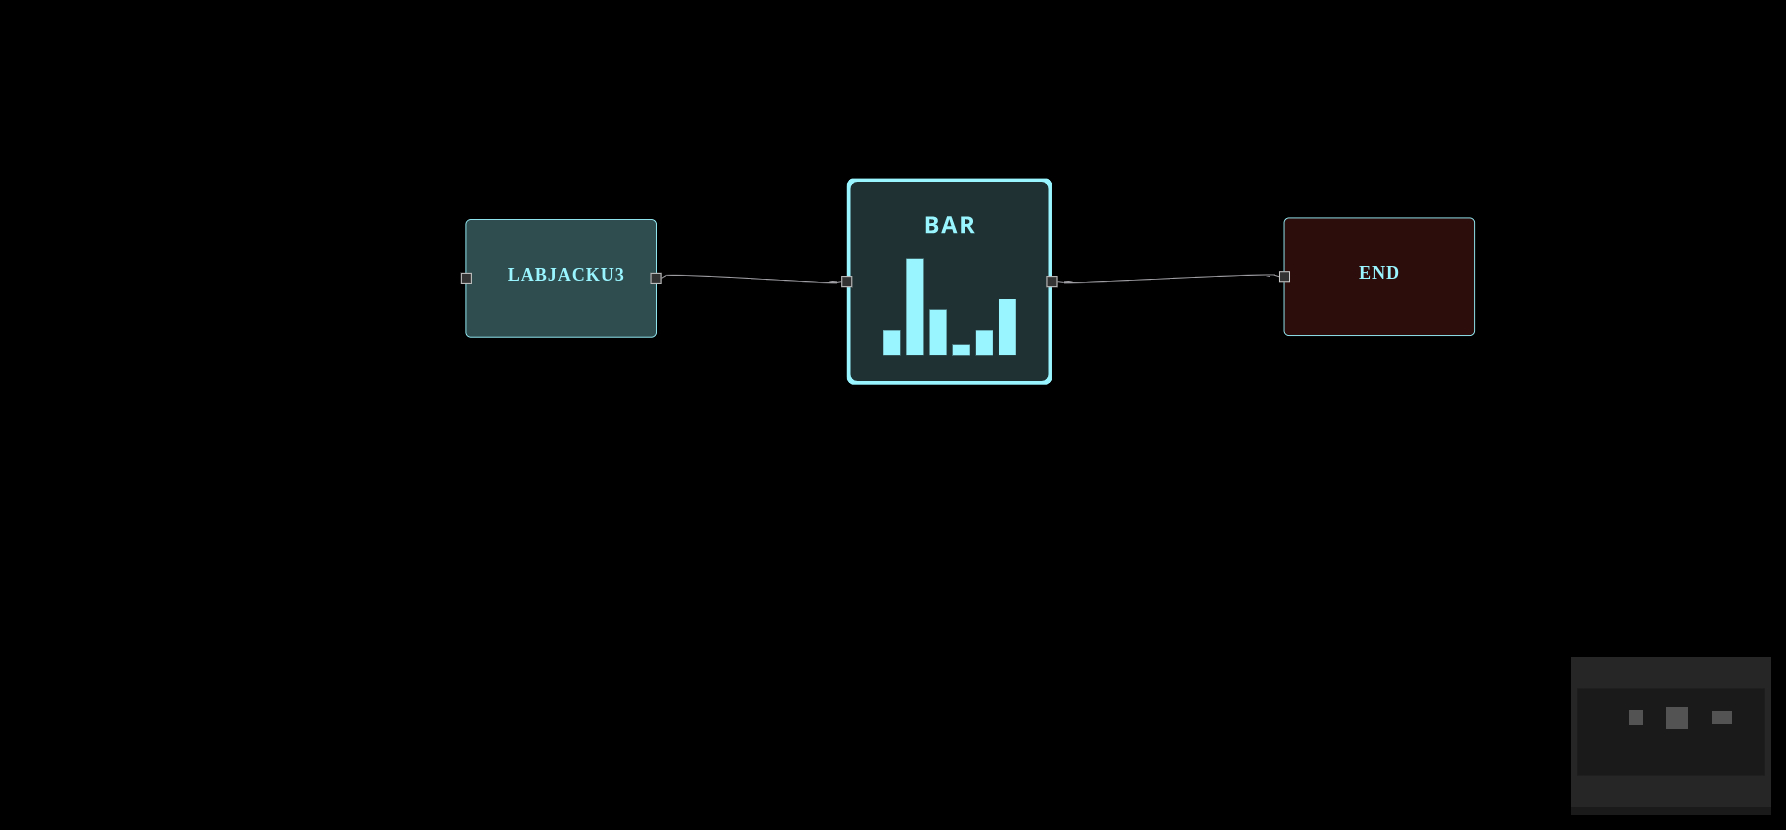
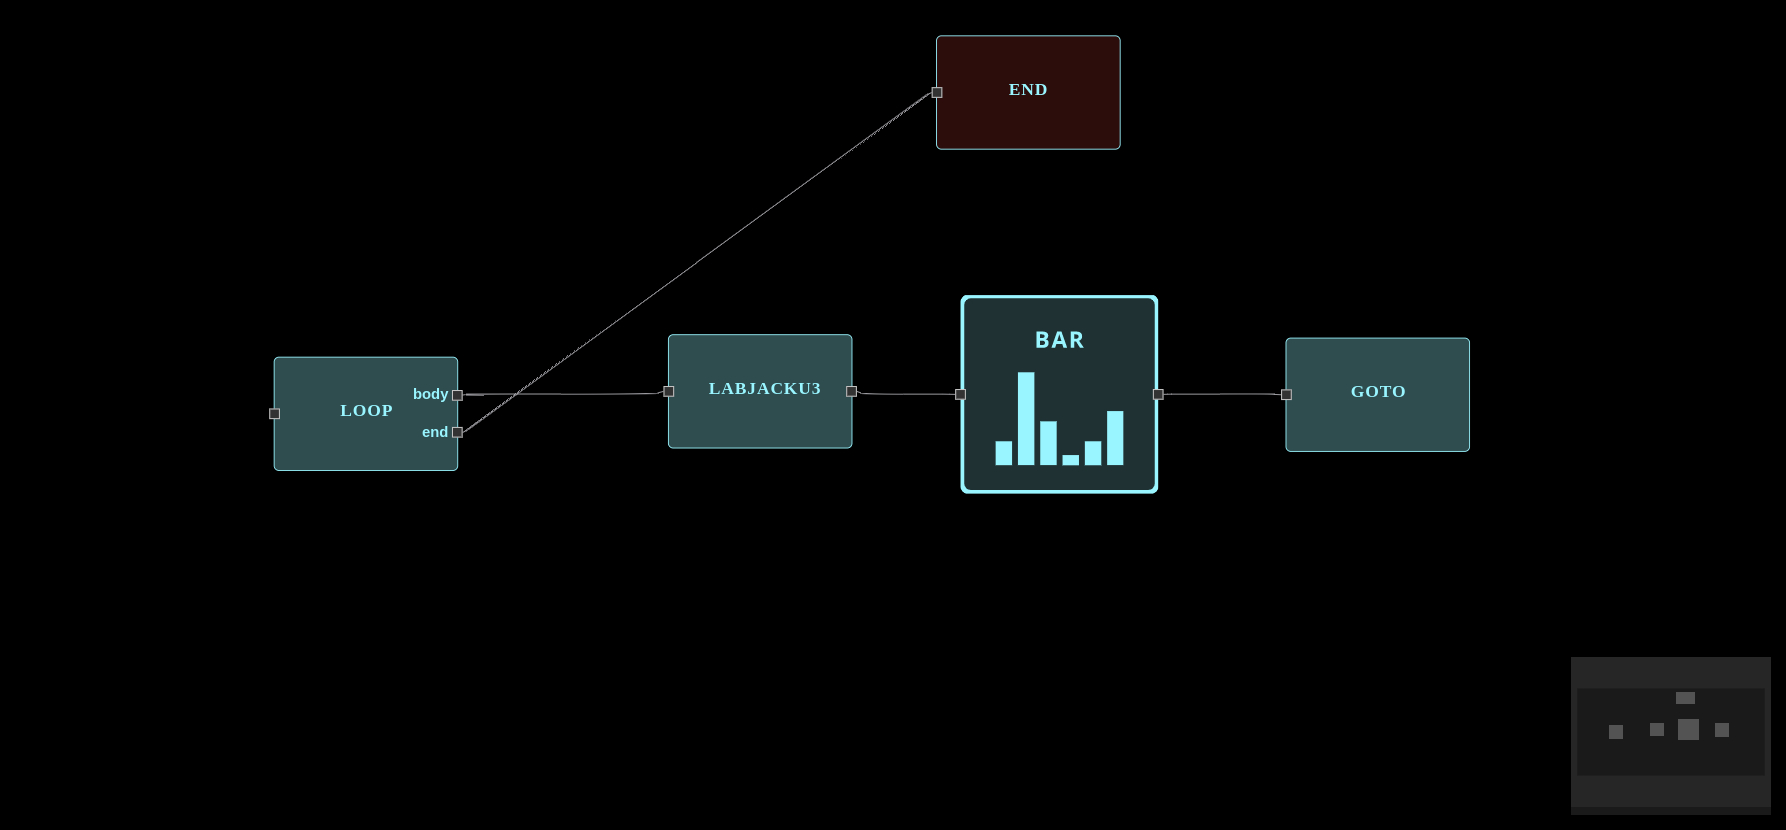
migrated Phidget22 nodes

diff --git a/INSTRUMENTS/PHIDGET/PHIDGET22/PHIDGET22.py b/INSTRUMENTS/PHIDGET/PHIDGET22/PHIDGET22.py
@@ -1,4 +1,4 @@
-from flojoy import flojoy, DataContainer
+from flojoy import flojoy, OrderedPair
 import Phidget22
 from Phidget22.Phidget import *
 from Phidget22.Devices.VoltageRatioInput import *
@@ -9,15 +9,32 @@ def onVoltageRatioChange(self, voltageRatio):
     print("VoltageRatio [" + str(self.getChannel()) + "]: " + str(voltageRatio))
 
 
-@flojoy
-def PHIDGET22(dc_inputs: list[DataContainer], params: dict) -> DataContainer:
-    """Pressure Measurement with Phidget 22 sensors"""
+@flojoy(deps={"Phidget22": "1.14.20230331"})
+def PHIDGET22(
+    default: OrderedPair = None,
+    n_sensors: int = 1,
+    calibration1: float = 0.015,
+    calibration2: float = 0.06,
+) -> OrderedPair:
+    """
+    The node Phidget allows you to record pressures from Flexiforce sensors using a Phidget InterfaceKit.
+
+    Parameters
+    -----------
+    n_sensors: int
+         Defines the number of pressure sensors connected to the Phidget Interface Kit.
+    calibration1: float
+    calibration2: float
+        Calibration parameters to convert voltage into pressure.
+    """
     voltage: list[float] = []
     pressions: list[float] = []
-    N = params["n_sensors"]
+    sensor_num: list[int] = []
+    N = n_sensors
 
     for i in range(0, N):
-        # Creation of an instance of the VoltageRationInput class
+        sensor_num.append(i + 1)
+        """# Creation of an instance of the VoltageRationInput class
         voltageRatioInput = VoltageRatioInput()
         # Set Channel for Communication with the Phidget Interface Kit :
         voltageRatioInput.setChannel(i)
@@ -32,24 +49,13 @@ def PHIDGET22(dc_inputs: list[DataContainer], params: dict) -> DataContainer:
         voltage.append(volt_i)  # Add Voltage to the list of measurements
 
         # Example of a Calibration to convert Voltage into pressions :
-        pression_i: float = (volt_i - params["calibration1"]) / params["calibration2"]
+        pression_i: float = (
+            volt_i - params["calibration1"]) / params["calibration2"]
 
-        pressions.append(pression_i)
+        pressions.append(pression_i)"""
 
-    return DataContainer(x={"a": voltage, "b": pressions}, y=pressions)
+    Mock_pressions = [2.1, 3.4, 1.4, 5.3, 8.6, 2.1]
 
+    results = OrderedPair(x=sensor_num, y=Mock_pressions)
 
-@flojoy
-def PHIDGET22_MOCK(dc_inputs: list[DataContainer], params: dict) -> DataContainer:
-    """Mock Function for the node Phidget 22"""
-    voltage: list[float] = []
-    pressions: list[float] = []
-    N = 4
-
-    for i in range(0, N):
-        volt_i: int = i * 10 + 4  # Scalar operation to modify data
-        voltage.append(volt_i)  # Add Voltage to the list of measurements
-        pression_i: float = (volt_i - 0.015) / 0.06
-        pressions.append(pression_i)
-
-    return DataContainer(x={"a": voltage, "b": pressions}, y=pressions)
+    return results

diff --git a/INSTRUMENTS/LABJACK/LABJACKU3/LABJACKU3.py b/INSTRUMENTS/LABJACK/LABJACKU3/LABJACKU3.py
@@ -4,17 +4,15 @@ import u3  # Import the library from LabJackPython in order to use our U3-LV dev
 
 
 @flojoy(deps={"labjackpython": "2.1.0"})
-def LABJACKU3(
-        default: OrderedPair = None,
-        numbers: int = 1) -> OrderedPair:
-    '''
+def LABJACKU3(default: OrderedPair = None, numbers: int = 1) -> OrderedPair:
+    """
     The node LABJACKU3 allows you to record and return temperature measurements with a LABJACK U3 device.
 
     Parameters
     -----------
     number: int
          Defines the number of temperature sensors connected to the LabJack U3 device.
-    '''
+    """
 
     voltages: list[float] = []
     temperatures: list[float] = []

diff --git a/INSTRUMENTS/PHIDGET/PHIDGET22/example.md b/INSTRUMENTS/PHIDGET/PHIDGET22/example.md
@@ -1,45 +1,18 @@
-- This is a tutorial for using the node called Phidget 22 and measure pressures from Flexiforce sensors using a Phidget InterfaceKit
+This example shows how to use the node Phidget22 and measure pressures from Flexiforce sensors using a Phidget InterfaceKit
+The appendix contains all information about hardware requirements and sensor connections (Images).
 
+After connecting the pressure sensors, place the nodes on Flojoy:
 
-**Hardware required** : 
-- A Phidget InterfaceKit (Model 8/8/8 1018_3 is the one we used to develop the node)
-- N pressure sensors (This tutorial will present measurement from FlexiForce sensor but you can use all the Sensors compatible with Phidget).
-- Connections cables (USB, Electronic cables)
+- The ['PHIDGET22'](https://github.com/flojoy-io/nodes/blob/main/INSTRUMENTS/PHIDGET/PHIDGET22/PHIDGET22.py) node communicates with the Phidget interface kit. It measures voltages from the sensors and converts them into pressures thanks to the two calibration parameters (The user has to calibrate his sensors). This node has another parameter, 'n_sensors,' the number of pressure sensors in your experiment.
 
+- The ['BAR'](https://github.com/flojoy-io/nodes/blob/main/VISUALIZERS/PLOTLY/BAR/BAR.py) node shows all pressure measurements on the same figure.
 
-**Software required :**
-- Flojoy software running (Go to the page -- Getting started/Installation)
-- Phidget 22 PAckage -- (It should be installed automatically from Requirements) (Otherwise follow docs from : https://www.phidgets.com/docs/Main_Page)
+- The ['END'](https://github.com/flojoy-io/nodes/blob/main/LOGIC_GATES/TERMINATORS/END.py) node terminates the process.
 
-**Connection :** 
-- Connect the PHIDGET Interfacekit to your computer with an USB Cable
-- Connect the Flexiforce sensors with the Phidget Interfacekit using a Flexiforce adapter (See Image)
+### Calibration:
 
-![image](./assets/Phidget22_sensor.jpg)
+Apply known pressures (at least 4) and measure sensor voltages with the Phidget control panel. Plot the voltage as a function of the forces applied. You can choose the unit of your choice.
+Find the linear equation (y=ax+b) between the voltage measured and the pressure applied on the sensor.
+A and B are the calibration parameters used to convert voltage to pressure.
 
-**Node Management :** 
-
-The PHIDGET22 node doesn't need any data input, so it can be placed on the left on the Flojoy interface : 
-
-![image](./assets/PHIDGET22_nodes.png)
-
-You'll need to set up one numeric parameters in the CRTL panel which is the number of pressure sensors you are using for your experiment. 
-Note that the node is measuring voltage from the sensors (The calibration will depend on the type of sensor you are using)
-
-![image](./assets/PHIDGET22_ctrl.png)
-
-**Calibration :** 
-
-In order to Calibrate your sensor, you'll need to apply some known pressures (3 or 4 is best, and you can use pad sensor to increase the voltage) 
-and measure some voltages with the Flojoy application. 
-From these measurements you deduce the relation between the voltage and the pressure applied on the sensor, and you can use operationnal
-nodes in order to convert voltage into pressures.
-
-**Visualisation :** 
-
-After that you can choose your Visualisation node that fits your project to display the pressure measurements as you want.  
-
-Also, you can use the loop node (See documentation) in order to update the measurements, you can set the parameters you want for the loops
-(Delay, number of loops, etc..) 
-
-![image](./assets/PHIDGET22_nodeswithloop.png)
+To update the measurements with time, you can add the [`LOOP`](https://github.com/flojoy-io/nodes/blob/main/LOGIC_GATES/LOOPS/LOOP/LOOP.py) node and the [`GOTO`](https://github.com/flojoy-io/nodes/blob/main/LOGIC_GATES/LOOPS/GOTO/GOTO.py) node to create a loop. (See [`LOOP`](https://github.com/flojoy-io/nodes/blob/main/LOGIC_GATES/LOOPS/LOOP/LOOP.py) documentation for loop settings).
